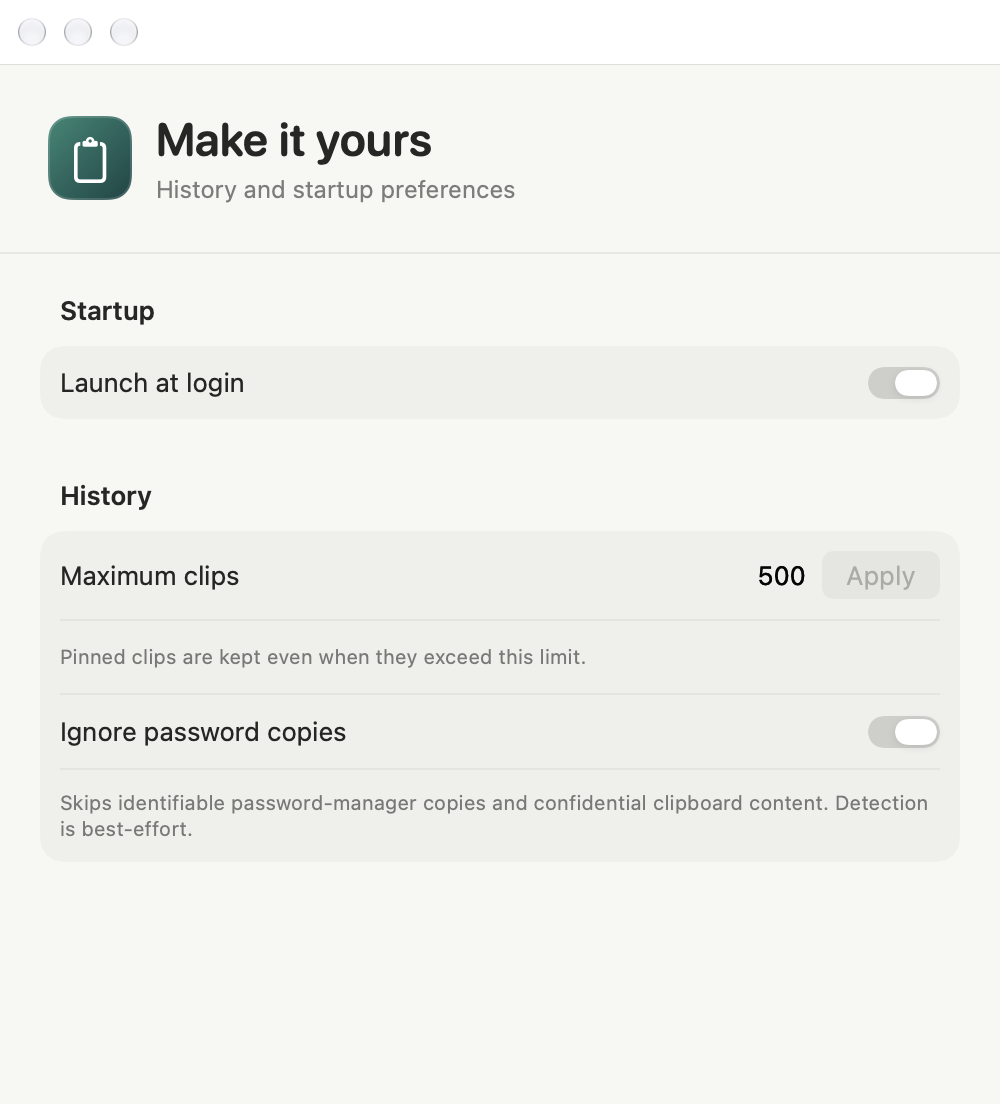
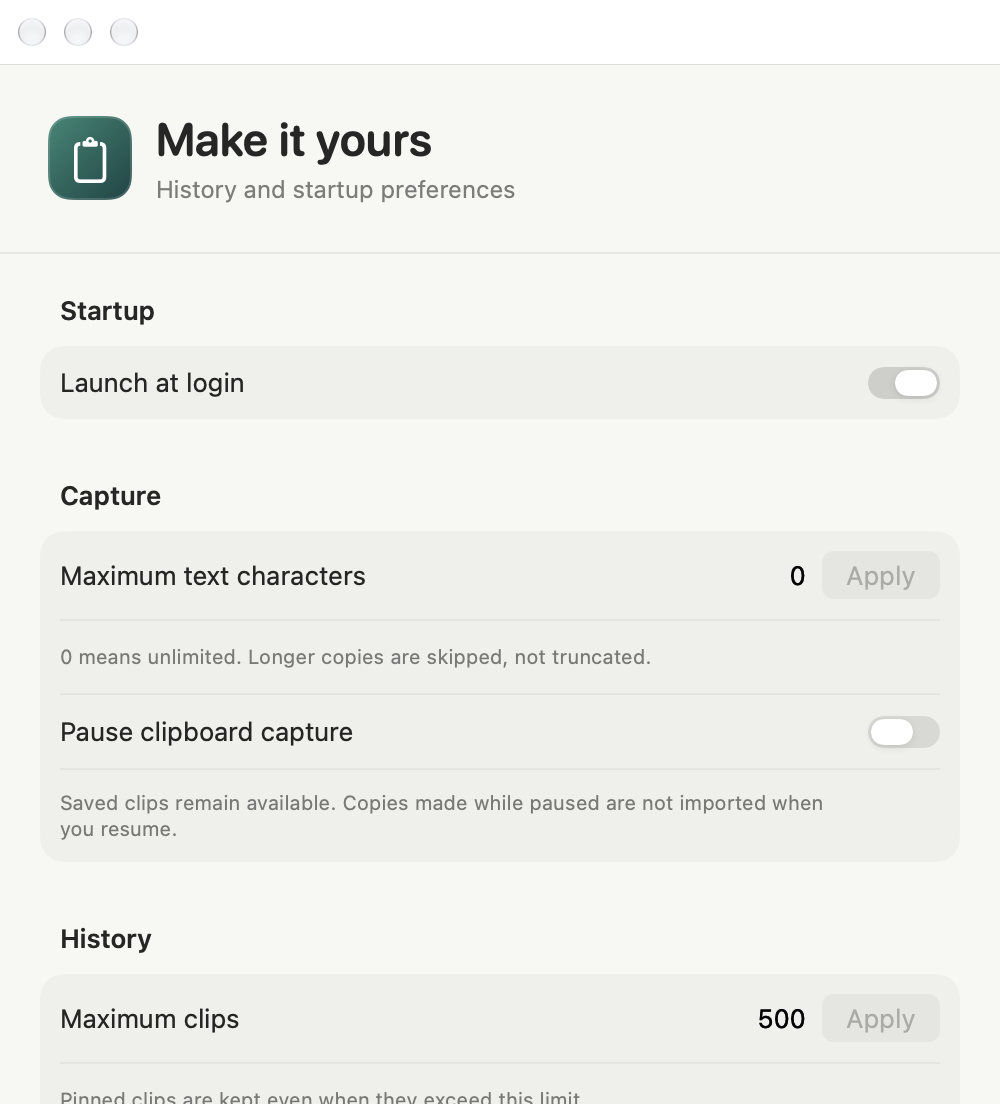
Polish README with themed screenshots and contributor quick start

diff --git a/README.md b/README.md
@@ -1,78 +1,151 @@
-<!-- Purpose: Explain ClipVault, local development, storage, and licensing. -->
-# ClipVault
+<!-- Purpose: Introduce ClipVault, show its native interface, and guide users and contributors. -->
+<div align="center">
+  <img src="Artwork/ClipVault-1024.png" alt="ClipVault app icon" width="112" height="112">
+  <h1>ClipVault</h1>
+  <p><strong>A calmer place for everything you copy.</strong></p>
+  <p>A native macOS menu bar app for text, links, images, and the things you want to keep.</p>
+  <p>
+    <img src="https://img.shields.io/badge/macOS-14%2B-185F57?style=flat-square" alt="Requires macOS 14 or later">
+    <img src="https://img.shields.io/badge/Built_with-SwiftUI-185F57?style=flat-square" alt="Built with SwiftUI">
+    <a href="LICENSE"><img src="https://img.shields.io/badge/License-MIT-185F57?style=flat-square" alt="MIT license"></a>
+  </p>
+  <p>
+    <a href="#the-small-things-add-up">Features</a> ·
+    <a href="#run-it-on-your-mac">Get started</a> ·
+    <a href="#your-clipboard-stays-on-your-mac">Privacy</a> ·
+    <a href="CONTRIBUTING.md">Contribute</a>
+  </p>
+</div>
 
-A native Swift and SwiftUI clipboard history app for macOS 14 and later.
+<br>
 
-ClipVault lives in the menu bar and supports searchable text and image history,
-pinned clips, filters, a global Command-Shift-V shortcut, and optional launch at
-login. Clipboard history is stored locally using SQLite and image files.
+<picture>
+  <source media="(prefers-color-scheme: dark)" srcset="Design/Previews/history-dark-window.png">
+  <source media="(prefers-color-scheme: light)" srcset="Design/Previews/history-light-window.png">
+  <img src="Design/Previews/history-light-window.png" alt="ClipVault history window with searchable clip cards, filters, and a full text preview" width="100%">
+</picture>
 
-Capture can be paused from the menu, and oversized text copies can be skipped
-using an optional character limit. History supports oldest/newest/pinned-first
-sorting, non-destructive text copy transformations, clear-unpinned, and export
-of the current text results as JSON. Image previews offer on-device text
-recognition with selectable results and Copy Text.
+<p align="center"><sub>Native SwiftUI. Light and dark appearances. Sample content shown.</sub></p>
 
-## Guides
+> **Development preview:** build from source for now. A signed, notarized download and Homebrew cask are not published yet. The repository is MIT-licensed and currently private while we prepare for public access.
 
-- [Controls and retention](Docs/Usage.md)
-- [Local storage and privacy](Docs/Privacy.md)
-- [Search and filters](Docs/Search.md)
-- [Retention and pins](Docs/Retention.md)
-- [Reporting problems](Docs/Support.md)
-- [Manual verification](Docs/ManualTesting.md)
-- [Signing and release packaging](Distribution/ReleaseGuide.md)
-- [Capture troubleshooting](Docs/Troubleshooting.md)
-- [Copy and Paste](Docs/CopyAndPaste.md)
-- [Launch at login](Docs/LoginItems.md)
-- [Image history](Docs/Images.md)
-- [Development workflow](Docs/Development.md)
-- [Source architecture](Docs/Architecture.md)
-- [Release checklist](Distribution/ReleaseChecklist.md)
-- [Release notes template](Distribution/ReleaseNotesTemplate.md)
+## The small things add up
 
-## Development
+Copy something. Bring up ClipVault with <kbd>⌘</kbd> <kbd>⇧</kbd> <kbd>V</kbd>. Find it again when you need it.
 
-Open `ClipVault.xcodeproj` in Xcode and run the ClipVault scheme on My Mac.
-Swift Package Manager resolves SQLite.swift and HotKey automatically.
+| | What you can do |
+| :--- | :--- |
+| **Find it fast** | Search stored text, filter by type or pins, and sort newest, oldest, or pinned first. |
+| **Keep the useful bits** | Pin clips so they survive automatic pruning. Preview full text and saved images. |
+| **Read text from images** | Run on-device OCR on a saved image, select the result, and copy it as text. |
+| **Copy it your way** | Trim whitespace, flatten text to one line, or change case without editing the original. |
+| **Stay in control** | Pause capture, set a history limit, skip oversized text, or clear only unpinned clips. |
+| **Keep it close** | Reuse the ten newest clips from the menu bar and optionally launch at login. |
+| **Take text with you** | Export the current text results as JSON, including timestamps and pin state. |
 
-For command-line compilation and regression checks:
+<details>
+<summary><strong>A closer look at the interface</strong></summary>
+
+### Light
+
+![ClipVault in light appearance](Design/Previews/history-light-window.png)
+
+### Dark
+
+![ClipVault in dark appearance](Design/Previews/history-dark-window.png)
+
+### Make it yours
+
+![ClipVault settings with startup, capture, and history preferences](Design/Previews/settings-light-window.png)
+
+These are renders of the actual app views using generated sample data, not personal clipboard history.
+
+</details>
+
+## Run it on your Mac
+
+You need **macOS 14 or later** and **Xcode** to run the app through its project. Repository access is required while the source is private.
+
+```sh
+git clone https://github.com/amritkang165/ClipVault.git
+cd ClipVault
+open ClipVault.xcodeproj
+```
+
+Choose the **ClipVault** scheme, select **My Mac**, and press <kbd>⌘</kbd> <kbd>R</kbd>. Swift Package Manager resolves the dependencies automatically. Look for the clipboard icon in your menu bar, then copy some fresh text or an image.
+
+For command-line development and regression checks:
 
 ```sh
 swift build
 python3 Checks/run.py
 ```
 
-Interactive clipboard, hotkey, and paste behavior should also be tested in the
-running app. Copy and Paste requires macOS Accessibility permission.
+The checks use temporary databases, private pasteboards, and generated images. A command-line build is not a signed app installer. Follow the [release guide](Distribution/ReleaseGuide.md) when preparing a distributable build.
 
-## Storage
+## A few keys to remember
 
-History is saved under `~/Library/Application Support/ClipVault/`, with text
-and metadata in `clips.sqlite3` and images in separate files. Preferences use
-UserDefaults. There is no clipboard cloud sync or upload. Stored history is
-not encrypted by the app. Password-source filtering is best effort.
+| Shortcut | Action |
+| :--- | :--- |
+| <kbd>⌘</kbd> <kbd>⇧</kbd> <kbd>V</kbd> | Open history and focus search |
+| <kbd>Return</kbd> | Copy the selected clip; keep history open |
+| <kbd>⌘</kbd> <kbd>C</kbd> | Copy the selected clip |
+| <kbd>⌘</kbd> <kbd>⇧</kbd> <kbd>C</kbd> | Copy and paste into the previous app |
+| <kbd>Delete</kbd> | Delete the selected clip |
 
-## Distribution
+Row shortcuts apply when you are not editing a text field. **Copy & Paste** requires macOS Accessibility permission; ordinary copying does not use simulated keystrokes.
 
-See [the release guide](Distribution/ReleaseGuide.md) for signing, notarization,
-and DMG packaging. This repository does not itself provide a notarized release.
+## Your clipboard stays on your Mac
 
-## Contributing
+Clipboard history is stored locally. There is no clipboard upload, cloud sync, or remote OCR service.
 
-See [CONTRIBUTING.md](CONTRIBUTING.md) for setup, checks, and how to pick an issue.
-The [GitHub issue tracker](https://github.com/amritkang165/ClipVault/issues)
-tracks confirmed bugs, feature proposals, and release work. The repository is
-currently private while we prepare for public access; MIT licensing does not
-itself change repository visibility.
+```text
+~/Library/Application Support/ClipVault/
+├── clips.sqlite3       # Text, timestamps, pins, and image paths
+└── clip-<UUID>.png      # Saved images
+```
+
+Preferences use macOS UserDefaults. Password-copy filtering is enabled by default and uses identifiable clipboard markers and app information.
+
+A few limits are worth understanding:
+
+- **History and exports are not encrypted by ClipVault.** Backups and other software with file access may copy them.
+- **Password filtering is best effort.** It cannot identify every sensitive copy.
+- **OCR results are temporary.** They are not automatically saved, searched, or included in text exports.
+- **Clear all includes pins.** Clear unpinned preserves them. Neither clears the current system clipboard or existing exports.
+
+Read the [privacy notes](Docs/Privacy.md) for the details.
+
+## Build it with us
+
+Pick something that interests you from the [issue tracker](https://github.com/amritkang165/ClipVault/issues). Issues include scope, acceptance criteria, and suggested starting points. Comment before you start so we can avoid duplicate work.
+
+- **Start small:** [show a successful-copy confirmation](https://github.com/amritkang165/ClipVault/issues/6).
+- **Improve a daily workflow:** [save recognized text](https://github.com/amritkang165/ClipVault/issues/3) or [customize the global shortcut](https://github.com/amritkang165/ClipVault/issues/4).
+- **Help ship it:** [automated checks](https://github.com/amritkang165/ClipVault/issues/8) and [release verification](https://github.com/amritkang165/ClipVault/issues/9).
+
+The [contribution guide](CONTRIBUTING.md) covers setup, testing, and pull requests. Public contributions can begin once repository access is opened; collaborators can work on these issues now.
+
+## Go a little deeper
+
+| For | Guides |
+| :--- | :--- |
+| Everyday use | [Controls](Docs/Usage.md) · [Search](Docs/Search.md) · [Pins & retention](Docs/Retention.md) |
+| Images & shortcuts | [Image text recognition](Docs/Images.md) · [Copy & Paste](Docs/CopyAndPaste.md) · [Launch at login](Docs/LoginItems.md) |
+| Getting unstuck | [Troubleshooting](Docs/Troubleshooting.md) · [Reporting a problem](Docs/Support.md) |
+| Development | [Architecture](Docs/Architecture.md) · [Local workflow](Docs/Development.md) · [Manual checks](Docs/ManualTesting.md) |
+| Distribution | [Release guide](Distribution/ReleaseGuide.md) · [Checklist](Distribution/ReleaseChecklist.md) · [Release notes template](Distribution/ReleaseNotesTemplate.md) |
+
+## Built with
+
+Swift, SwiftUI, AppKit, and Apple Vision, with [SQLite.swift](https://github.com/stephencelis/SQLite.swift) for storage and [HotKey](https://github.com/soffes/HotKey) for the global shortcut.
 
 ## License
 
-ClipVault is licensed under the [MIT License](LICENSE), which permits use,
-modification, and redistribution with the copyright and license notice retained.
-Dependencies retain their [own licenses](ClipVault/ThirdPartyNotices.txt).
+[MIT](LICENSE) © 2026 Amrit Kang. Use, modify, and redistribute with the copyright and license notice retained. Dependencies keep their [own licenses](ClipVault/ThirdPartyNotices.txt).
 
-## Repository history
+<details>
+<summary>About the repository history</summary>
 
 This project was imported into this repository on November 5, 2026. At the
 owner's request, seven initial commits were assigned October 21, 2026 dates,
@@ -84,3 +157,5 @@ These assigned dates do not represent when the commits were actually created.
 The October 25, 2026 batch contains 25 implementation, test, and documentation
 commits added retrospectively. It replaces an earlier batch of empty markers;
 these dates do not indicate when the features were actually implemented.
+
+</details>
